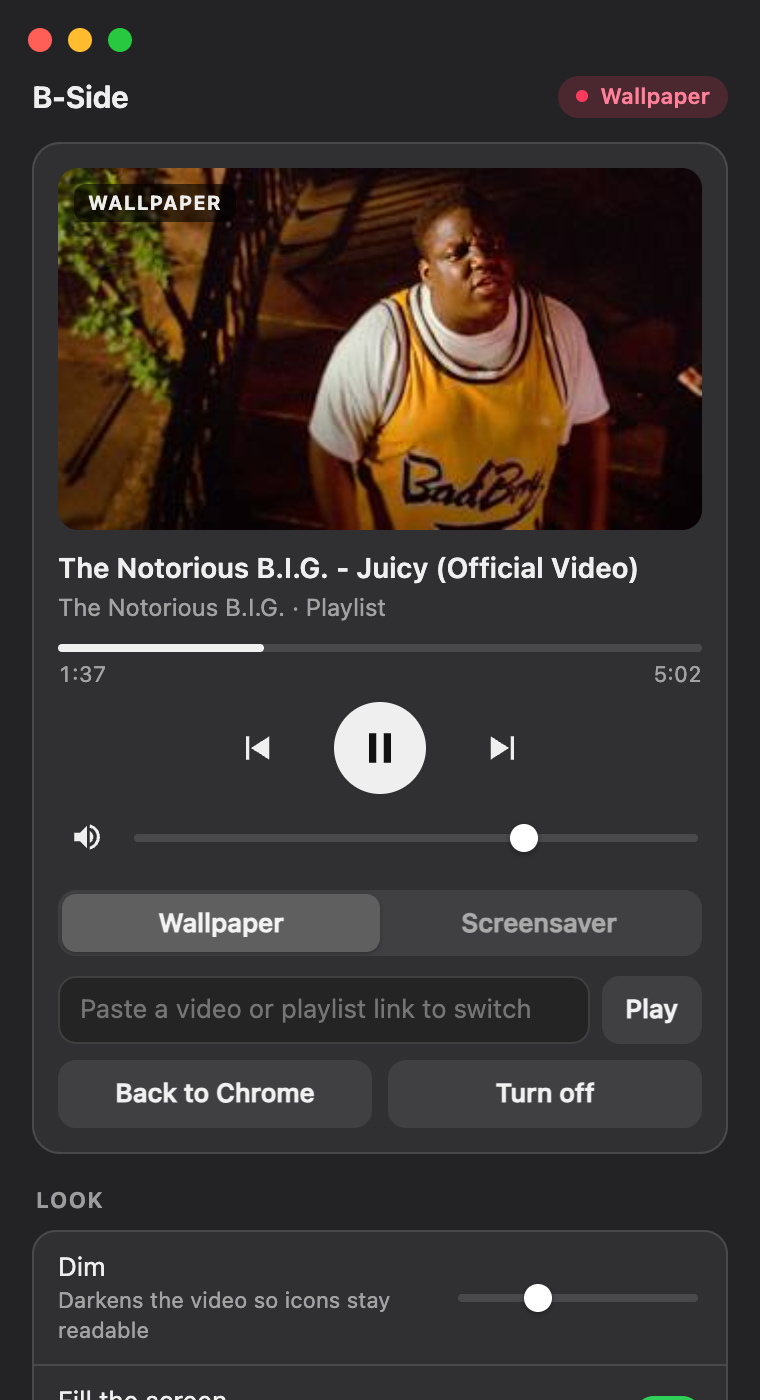
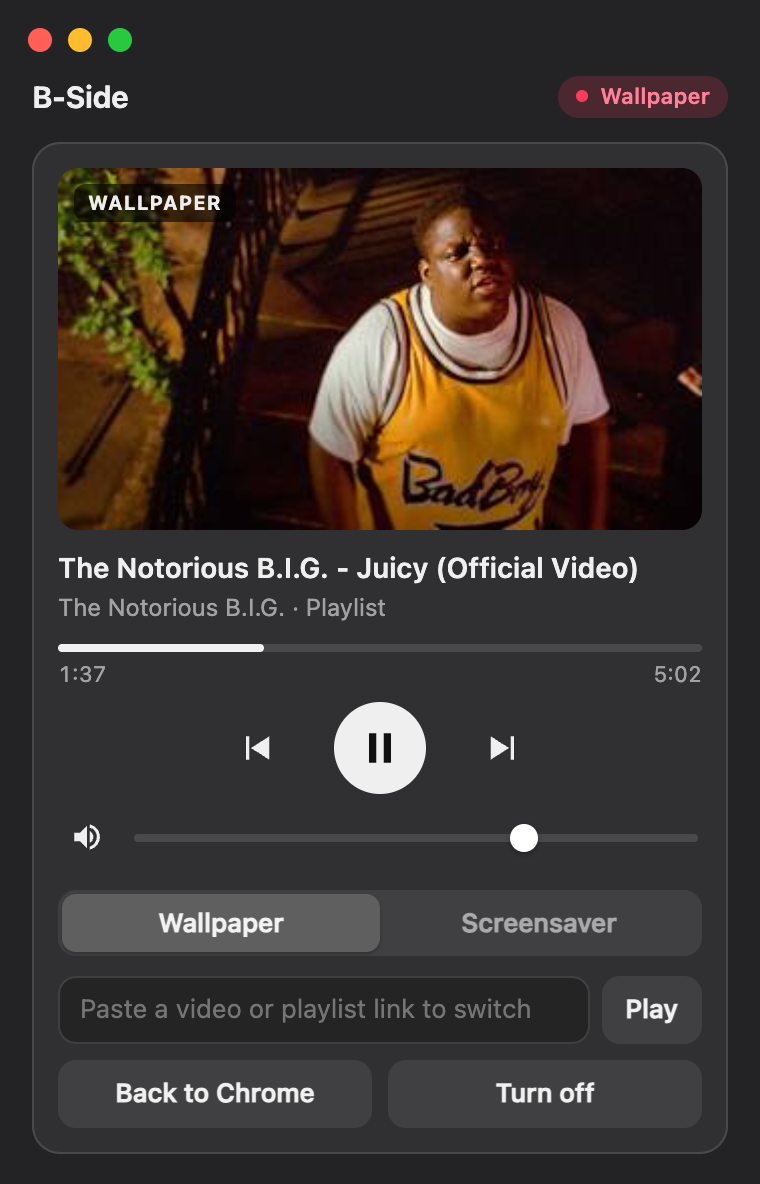
Site: fix stretched panel images (height:auto), crop the hero panel cleanly, drop the placeholder notes window

diff --git a/docs/index.html b/docs/index.html
@@ -34,7 +34,7 @@
 html { -webkit-text-size-adjust: 100%; }
 body { margin: 0; background: var(--ink); color: var(--paper); font: 400 16px/1.55 var(--sans); overflow-x: hidden; }
 a { color: inherit; }
-img { max-width: 100%; display: block; }
+img { max-width: 100%; height: auto; display: block; }
 .wrap { max-width: var(--max); margin: 0 auto; padding: 0 var(--gutter); }
 .mono { font-family: var(--mono); font-size: 12px; letter-spacing: .02em; }
 .label { font-family: var(--mono); font-size: 12px; text-transform: uppercase; letter-spacing: .08em; color: var(--grey); }
@@ -97,7 +97,7 @@ img { max-width: 100%; display: block; }
 .win .tl { height: 2.6cqh; display: flex; align-items: center; gap: .45cqw; padding: 0 .8cqw; border-bottom: 1px solid rgba(255,255,255,.07); }
 .win .tl i { width: .75cqw; height: .75cqw; border-radius: 50%; background: #ff5f57; }
 .win .tl i:nth-child(2) { background: #febc2e; } .win .tl i:nth-child(3) { background: #28c840; }
-.win.term { left: 6cqw; top: 12cqh; width: 34cqw; height: 34cqh; }
+.win.term { left: 5cqw; top: 9cqh; width: 32cqw; height: auto; }
 .win.term pre { margin: 0; padding: 1cqw 1.2cqw; font: 1.05cqw/1.55 var(--mono); color: #d8d8d8; white-space: pre; }
 .win.term pre b { color: #7ee787; font-weight: 400; } .win.term pre u { color: var(--accent); text-decoration: none; }
 .win.notes { left: 14cqw; top: 52cqh; width: 28cqw; height: 26cqh; }
@@ -294,11 +294,7 @@ taking the video open in Chrome
   "now": "Juicy (Official Video)",
   "playing": true }</pre>
           </div>
-          <div class="win notes" aria-hidden="true">
-            <div class="tl"><i></i><i></i><i></i></div>
-            <p>Tonight</p><s style="width:70%"></s><s style="width:52%"></s><s style="width:61%"></s>
-          </div>
-          <img class="panelshot" src="assets/panel.png" alt="" width="380" height="700">
+          <img class="panelshot" src="assets/panel.png" alt="" width="380" height="592">
           <div class="dock" aria-hidden="true"><i style="--c:#3d8bfd"></i><i style="--c:#30d158"></i><i style="--c:#f2f0ea"></i><img src="assets/icon.svg" alt=""><i style="--c:#ffb340"></i><i style="--c:#5e5ce6"></i></div>
         </div>
         <div class="modes" role="tablist" aria-label="Modes">

diff --git a/tools/render-panel.py b/tools/render-panel.py
@@ -27,7 +27,7 @@ body::before { content: ""; position: fixed; left: 14px; top: 14px; width: 12px;
 """
 with sync_playwright() as p:
     b = p.chromium.launch(channel="chrome")
-    for name, h, full, st in (("panel", 700, False, state), ("panel-full", 700, True, state)):
+    for name, h, full, st in (("panel", 592, False, state), ("panel-full", 700, True, state)):
         pg = b.new_page(viewport={"width": 380, "height": h}, device_scale_factor=2)
         pg.goto((root / "src/panel.html").as_uri())
         pg.add_style_tag(content=chrome)
